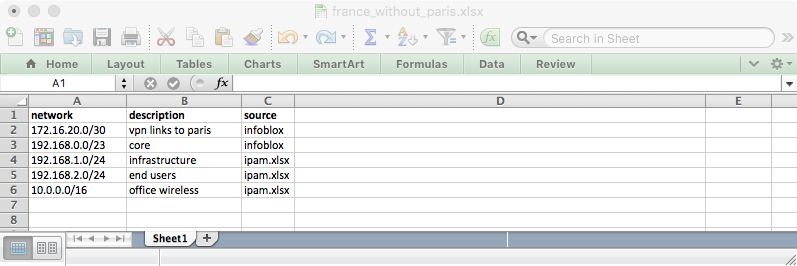
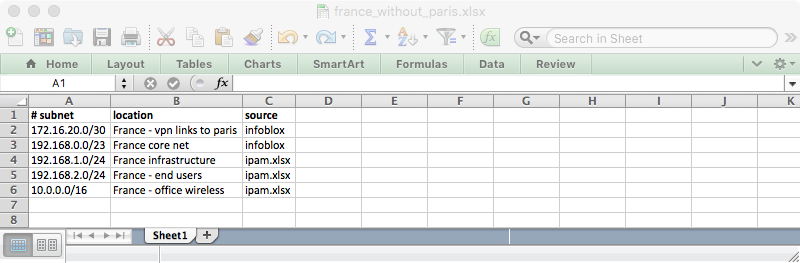
new images

diff --git a/intersection.py b/intersection.py
@@ -25,8 +25,8 @@ for excel in args:
 			try:
 				n = ipaddress.ip_network( data )
 			except ValueError as err:
-				if i: # first line assumed to be a header...
-					print( "Warning: Cell %s%d value '%s' is not recognised as a IPv4 net." %(ops.network, i+1, row[ ord(ops.network.upper())-65 ].value))
+				if i and not data.startswith('#'): # first line assumed to be a header...
+					print( "Warning: Cell %s%d value '%s' is not recognised as a IPv4 net." %(ops.network, i+1, data))
 				continue
 
 			# check if this net overlap any existing:

diff --git a/README.md b/README.md
@@ -22,6 +22,10 @@ $ python3 intersection.py examples/france_without_paris.xlsx examples/paris_bran
   192.168.1.0/24 -> 192.168.0.0/23  examples/france_without_paris.xlsx:A4 -> examples/france_without_paris.xlsx:A3
   172.16.20.0/30 -> 172.16.20.0/30  examples/paris_branch_office.xlsx:A2 -> examples/france_without_paris.xlsx:A2
   10.0.1.0/24 -> 10.0.0.0/16  examples/paris_branch_office.xlsx:A3 -> examples/france_without_paris.xlsx:A6
+  192.168.1.0/26 -> 192.168.0.0/23  examples/paris_branch_office.xlsx:A4 -> examples/france_without_paris.xlsx:A3
+  192.168.1.64/26 -> 192.168.0.0/23  examples/paris_branch_office.xlsx:A5 -> examples/france_without_paris.xlsx:A3
+  192.168.1.128/26 -> 192.168.0.0/23  examples/paris_branch_office.xlsx:A6 -> examples/france_without_paris.xlsx:A3
+  192.168.1.192/26 -> 192.168.0.0/23  examples/paris_branch_office.xlsx:A7 -> examples/france_without_paris.xlsx:A3
 ```
 
 Multiple intersections are detected in the above example, the VPN link is perhaps intensional, whereas the 10.0/16 may not be.
